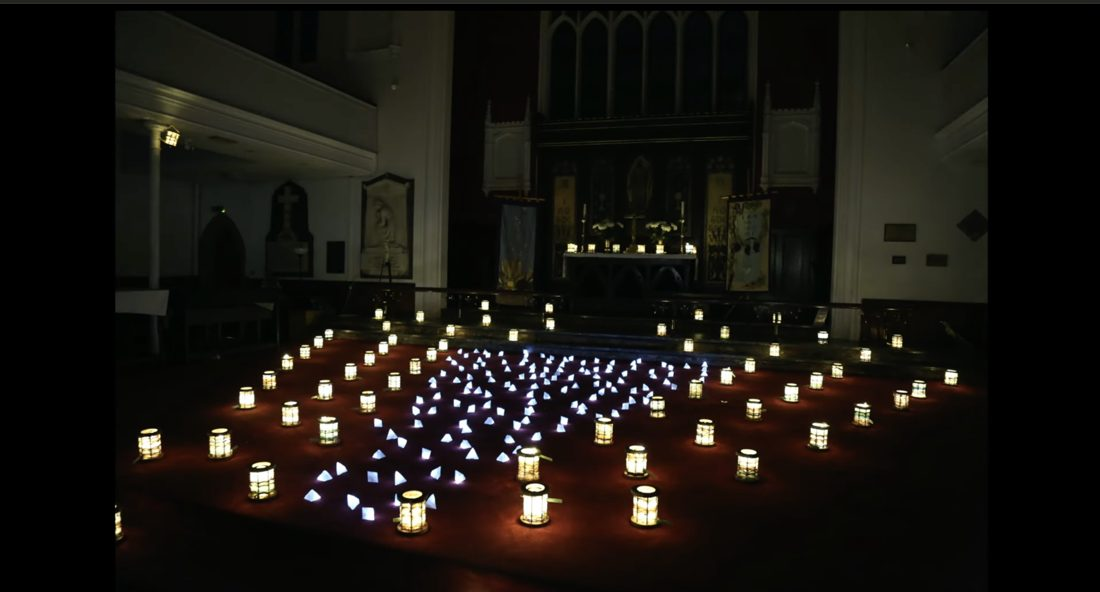
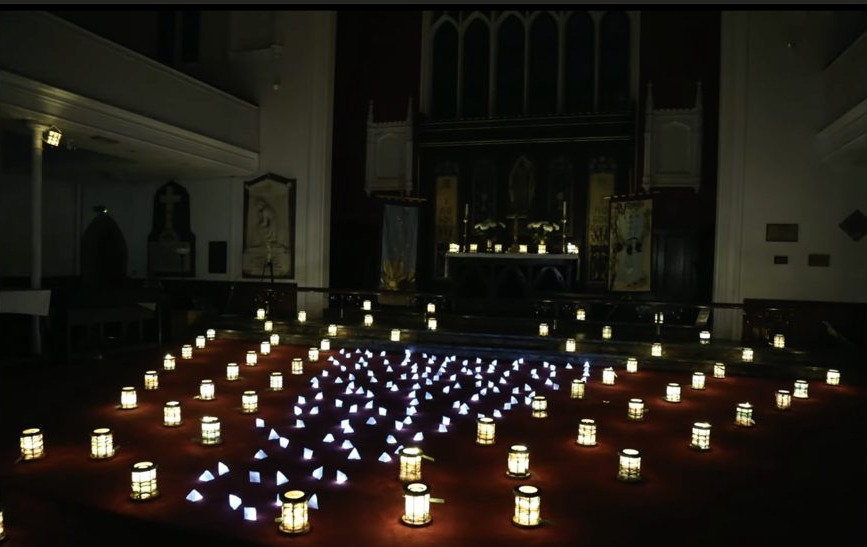
fix(final): 분야 목록을 사이트 디자인에 맞게, SA-006 이미지 검은 띠 제거
- Domain 칸의 브라우저 기본 목록(datalist)을 직접 그린 목록으로 교체
- SA-006_03.jpg 양옆·아래의 검은 띠를 잘라 냄

Claude-Session: https://claude.ai/code/session_01HSA7wxjjS5WYih4c2VBtbP

diff --git a/src/final/components/archive/AddEntryForm.jsx b/src/final/components/archive/AddEntryForm.jsx
@@ -63,6 +63,7 @@ function AddEntryForm({ domains, initial, onSubmit, onReset, onClose }) {
     const [images, setImages] = useState(editing ? initial.images : []); // [{ src, caption }]
     const [imageUrl, setImageUrl] = useState("");
     const [message, setMessage] = useState("");
+    const [domainOpen, setDomainOpen] = useState(false); // 분야 목록이 열려 있는지
 
     // 여러 줄 칸의 높이를 내용에 딱 맞춘다. 고정 높이(rows)면 글 아래에 지울 수 없는 빈 줄처럼 보이는 공간이 남는다.
     // 높이를 잠깐 auto로 풀었다가, 내용 전체 높이(scrollHeight)만큼으로 다시 잡는다. 글이 바뀔 때마다 실행.
@@ -114,6 +115,7 @@ function AddEntryForm({ domains, initial, onSubmit, onReset, onClose }) {
     // 저장은 "Add / Save" 버튼으로만 한다. 여러 줄 칸(textarea)의 Enter는 줄바꿈이라 그대로 둔다.
     function handleKeyDown(event) {
         if (event.key === "Enter" && event.target.tagName === "INPUT") event.preventDefault();
+        if (event.key === "Escape") setDomainOpen(false);
     }
 
     function handleSubmit(event) {
@@ -151,6 +153,15 @@ function AddEntryForm({ domains, initial, onSubmit, onReset, onClose }) {
     const pickable = domains.filter((d) => d.value !== "all");
     // 지금 적은 분야가 목록에 없는 새 분야인지 (안내 문장용)
     const typedDomain = normalizeDomain(form.domain);
+    // 목록에 보여 줄 분야: 적은 글자가 들어 있는 것만. 이미 정확히 고른 상태면 전부 다시 보여 준다(다른 걸로 바꾸기 쉽게)
+    const exact = pickable.some((d) => d.value === typedDomain);
+    const matching = typedDomain === "" || exact ? pickable : pickable.filter((d) => d.value.includes(typedDomain));
+
+    function pickDomain(value) {
+        setForm((previous) => ({ ...previous, domain: value }));
+        setDomainOpen(false);
+    }
+
     const isNewDomain = typedDomain !== "" && typedDomain !== "all" && !pickable.some((d) => d.value === typedDomain);
     const canAddImage = images.length < MAX_IMAGES;
 
@@ -164,24 +175,47 @@ function AddEntryForm({ domains, initial, onSubmit, onReset, onClose }) {
             </div>
 
             <div className="add-grid">
-                <label className="field">
-                    <span>Domain — 고르거나 새로 적기</span>
-                    {/* input + datalist: 목록에서 고를 수도 있고, 없는 분야를 직접 적을 수도 있다 */}
-                    <input
-                        name="domain"
-                        list="domain-options"
-                        value={form.domain}
-                        onChange={handleChange}
-                        placeholder="film, music, … 또는 새 분야"
-                        autoComplete="off"
-                    />
-                    <datalist id="domain-options">
-                        {pickable.map((d) => (
-                            <option key={d.value} value={d.value} />
-                        ))}
-                    </datalist>
+                <div className="field">
+                    <label htmlFor="entry-domain">Domain — 고르거나 새로 적기</label>
+                    {/* 고를 수도 있고 직접 적을 수도 있는 칸. 브라우저 기본 목록(datalist)은 모양을 바꿀 수 없어서
+                        목록을 직접 그린다: 칸에 들어오면 열리고, 적는 글자로 걸러지고, 항목을 누르면 그 값이 들어간다. */}
+                    <div className="combo">
+                        <input
+                            id="entry-domain"
+                            name="domain"
+                            value={form.domain}
+                            onChange={(event) => {
+                                handleChange(event);
+                                setDomainOpen(true);
+                            }}
+                            onFocus={() => setDomainOpen(true)}
+                            onBlur={() => setDomainOpen(false)}
+                            placeholder="film, music, … 또는 새 분야"
+                            autoComplete="off"
+                            role="combobox"
+                            aria-expanded={domainOpen && matching.length > 0}
+                            aria-controls="domain-options"
+                        />
+                        {domainOpen && matching.length > 0 && (
+                            <ul id="domain-options" className="combo-list" role="listbox">
+                                {matching.map((d) => (
+                                    <li key={d.value} role="option" aria-selected={d.value === typedDomain}>
+                                        {/* onMouseDown을 막아야 누르는 순간 칸의 포커스가 풀려 목록이 먼저 닫히지 않는다 */}
+                                        <button
+                                            type="button"
+                                            tabIndex={-1}
+                                            onMouseDown={(event) => event.preventDefault()}
+                                            onClick={() => pickDomain(d.value)}
+                                        >
+                                            {d.label}
+                                        </button>
+                                    </li>
+                                ))}
+                            </ul>
+                        )}
+                    </div>
                     {isNewDomain && <span className="field-hint">새 분야 "{typedDomain}" — 저장하면 필터에 추가돼요</span>}
-                </label>
+                </div>
                 <label className="field">
                     <span>Captured</span>
                     <input name="captured" value={form.captured} onChange={handleChange} placeholder="2026.11.26" />

diff --git a/src/final/styles/final.css b/src/final/styles/final.css
@@ -305,7 +305,14 @@ html { scroll-behavior: smooth; }
 .add-grid { display: grid; grid-template-columns: repeat(2, minmax(0, 1fr)); gap: var(--space-4) var(--space-5); }
 .field { display: grid; gap: var(--space-1); }
 .field.wide { grid-column: 1 / -1; }
-.field > span { font-size: var(--text-label); color: var(--muted); }
+.field > span, .field > label { font-size: var(--text-label); color: var(--muted); }
+/* 분야 고르기: 직접 그린 목록 (종이 카드 + 가는 선, 사이트의 다른 조각과 같은 재료) */
+.combo { position: relative; }
+.combo::after { content: "▾"; position: absolute; right: 0; top: 50%; transform: translateY(-50%); color: var(--muted); font-size: 12px; pointer-events: none; }
+.combo-list { position: absolute; top: calc(100% + 4px); left: 0; right: 0; z-index: 5; margin: 0; padding: var(--space-1) 0; list-style: none; background: var(--card); border: 1px solid var(--line); box-shadow: var(--shadow-paper); }
+.combo-list button { display: block; width: 100%; min-height: 40px; padding: 0 var(--space-3); border: 0; background: none; color: var(--ink); font-size: 15px; text-align: left; }
+.combo-list button:hover, .combo-list li[aria-selected="true"] button { background: var(--stage); }
+.combo-list li[aria-selected="true"] button { box-shadow: inset 3px 0 0 var(--tape); }
 .field > .field-hint { color: var(--brown); }
 .field input, .field select, .field textarea, .image-url {
     width: 100%;

diff --git a/src/final/GUIDE.md b/src/final/GUIDE.md
@@ -88,7 +88,7 @@ src/final/
 - 저장 위치: 이 브라우저의 `localStorage`(`ssikhive-entries`). **구글 시트는 읽지도 쓰지도 않는다**(시트 읽기 전용 원칙 유지)
 - 번호는 자동(`nextId`: 가장 큰 번호 + 1 → SA-010), 무대 위치도 자동(`stageSpotFor`: 기존 조각을 피한 빈자리 6곳)
 - 분야(Domain)를 직접 적어 늘리기 (2026-11-27 요청: 본인 — "보기에 없는 도메인을 직접 입력하면 자동으로 추가되게"):
-  - 폼의 Domain 칸을 고르기 전용(`select`)에서 **고르거나 직접 적는 칸**(`input` + `datalist`)으로 바꿨다
+  - 폼의 Domain 칸을 고르기 전용(`select`)에서 **고르거나 직접 적는 칸**으로 바꿨다. 처음엔 브라우저 기본 목록(`datalist`)을 썼는데 흰 둥근 상자라 사이트와 어울리지 않고 CSS로 바꿀 수도 없어서, 목록을 직접 그렸다(`domainOpen` state, 적는 글자로 거르기, `onMouseDown`의 `preventDefault`로 포커스 유지)
   - 분야 목록을 따로 저장하지 않는다. `domainsOf(entries)`가 기록에서 분야를 뽑아 필터 목록을 만든다(파생 데이터). 그래서 새 분야로 기록을 저장하면 Archive·Stage 필터와 Hero의 Domains에 자동으로 생기고, 그 분야의 기록이 다 지워지면 자동으로 사라진다
   - `normalizeDomain`: 앞뒤 공백을 떼고 소문자로 맞춘다 → "Design"과 "design"이 두 분야로 갈라지지 않는다. "all"은 전체 보기 자리라 분야 이름으로 못 쓴다
   - 한계: 새 분야의 NodeTag는 모두 TOP으로 나온다(CHOP은 music만). 소리 계열 분야를 더 만들면 `operatorOf`에 추가해야 한다
@@ -206,6 +206,7 @@ FinalApp ─ 기본 9개(− hiddenIds로 숨긴 것, + edits로 고친 것) + c
 ## 9. 알려진 한계
 
 - `hero.jpg`, `intro.mp4`는 생성형(Higgsfield). 화면 캡션에는 적지 않았으니 보고서 AI 활용 항목에 꼭 밝힐 것.
+- `src/14/archive/images/SA-006_03.jpg`: 양옆·아래에 검은 띠가 들어간 채 저장돼 있어 잘라 냈다(2026-11-27, 본인 지적). 14장 폴더에서 손댄 건 이 이미지 파일 하나뿐이고 코드는 그대로다.
 - 레퍼런스 이미지(SA-002~009)는 권리 미확인. `src/14/archive/CREDITS.md` 참고. 공개 배포·보고서 캡처 전에 확인.
 - Stage 무대는 키보드(방향키) 중심이라 휴대폰에서는 조각을 눌러서만 열 수 있다.
 - `BrowserRouter`라 GitHub Pages에 올리면 새로고침 시 404가 날 수 있다(배포한다면 `HashRouter` 검토).
@@ -221,6 +222,7 @@ FinalApp ─ 기본 9개(− hiddenIds로 숨긴 것, + edits로 고친 것) + c
 | 2026-11-26 | Claude | SENSORY ARCHIVE와 통일된 디자인 시스템 | 기존 CSS 분석, 토큰 파일, 공통 컴포넌트 재디자인 | (기록할 것) | 1학기 디자인 폐기, 사이트 이름·종이 테마·콜라주 무게 결정 |
 | 2026-11-26 | Claude | 레퍼런스·링크·이미지 최신화 | archiveData 확인, 데이터 구조 | (기록할 것) | hero는 생성형 이미지라고 알려 줌 |
 | 2026-11-26 | Claude | 내 브라우저로 화면 점검, Hero 교체 | 좁은 화면 Hero·무대 패널·탭 제목 지적과 수정, SA 이미지 콜라주 Hero | (기록할 것) | 고칠 것 승인, SA 콜라주는 중복돼 보인다고 판단 → Higgsfield·Midjourney 후보 8장 중 Higgsfield 1번 선택 |
+| 2026-11-27 | Claude | 분야 목록 디자인·SA-006 이미지 | 직접 그린 목록(combobox), 검은 띠 자르기 | (기록할 것) | 목록이 사이트와 안 어울린다·이미지가 잘못 들어갔다고 지적 |
 | 2026-11-27 | Claude | 분야 직접 추가 | select → input+datalist, 기록에서 분야 목록을 뽑는 구조, 대소문자 정리 | (기록할 것) | 기능 제안("다른 카테고리일 수도 있다") |
 | 2026-11-27 | Claude | Digging Log 설명 문장 | 후보 5개와 이유 제안 | (기록할 것) | "아카이빙 성격과 안 맞는다" 지적, E안("References I dug up, and why they stayed.") 선택 |
 | 2026-11-27 | Claude | Enter로 저장되는 문제 수정 | 원인 설명(input의 Enter = 폼 제출), 막는 코드, 줄바꿈 표시 | (기록할 것) | 직접 써 보다가 문제 발견·보고 |
